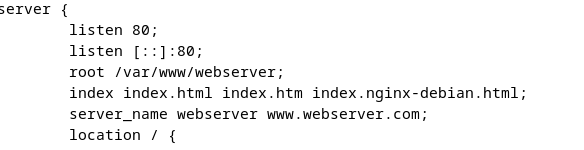
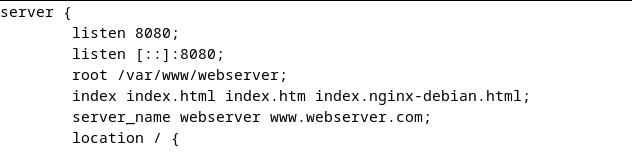
conf webserver terminada

diff --git a/docs/index.md b/docs/index.md
@@ -48,7 +48,22 @@ cambiamos el nombre del archivo en sí. Realizamos el mismo cambio dentro del ar
 ![Archivo configuración webserver](./images/02conf_webserver.png)
 
 > [!NOTE]
-> También sería adecuado realizar un cambio similar en /etc/hosts pero no es 
+> También se podría realizar un cambio similar en /etc/hosts pero no es 
 > estrictamente necesario para el funcionamiento del servidor.
 
+Realizados los cambios sobre el archivo de configuración, creamos un nuevo enlace simbólico ejecutando:
+```console
+sudo ln -s /etc/nginx/sites-available/webserver /etc/nginx/sites-enabled
+```
+
+Reiniciamos Nginx y comprobamos que funciona sin errores con:
+```console
+sudo systemctl restart nginx
+sudo nginx -t
+```
+
 ## Cambios en la MV con rol de Servidor de Proxy Inverso
+
+Los cambios de este apartado se realizan sobre la MV que vaya a funcionar como servidor proxy, 
+es decir, la que se encuentra entre servidor y cliente y redirige las peticiones.
+
